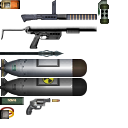
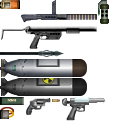
Added a fully functional syringe gun! Accepts syringes as ammo. Has custom sprite and sound. Made syringes have a "projectile" component for syringe guns Adds several missing signal components to the fabricator, as well as medical syringe to medical fabricator Adds support for status effects applied

Changed region(s): [[0.4688, 0.75, 0.8438, 0.9688]]

diff --git a/Barotrauma/BarotraumaShared/Source/Items/Components/Projectile.cs b/Barotrauma/BarotraumaShared/Source/Items/Components/Projectile.cs
@@ -237,6 +237,7 @@ namespace Barotrauma.Items.Components
             }
 
             AttackResult attackResult = new AttackResult();
+            Character character = null;
             if (attack != null)
             {
                 var submarine = target.Body.UserData as Submarine;
@@ -248,11 +249,13 @@ namespace Barotrauma.Items.Components
                     return true;
                 }
 
-                Limb limb;
+                Limb limb = target.Body.UserData as Limb;
                 Structure structure;
-                if ((limb = (target.Body.UserData as Limb)) != null)
+                if (limb != null)
                 {
                     attackResult = attack.DoDamageToLimb(User, limb, item.WorldPosition, 1.0f);
+                    if (limb.character != null)
+                        character = limb.character;
                 }
                 else if ((structure = (target.Body.UserData as Structure)) != null)
                 {
@@ -260,8 +263,8 @@ namespace Barotrauma.Items.Components
                 }
             }
 
-            ApplyStatusEffects(ActionType.OnUse, 1.0f);
-            ApplyStatusEffects(ActionType.OnImpact, 1.0f);
+            ApplyStatusEffects(ActionType.OnUse, 1.0f, character);
+            ApplyStatusEffects(ActionType.OnImpact, 1.0f, character);
 
             IsActive = false;
 
@@ -306,7 +309,7 @@ namespace Barotrauma.Items.Components
                     {
                         contained.SetTransform(item.SimPosition, contained.body.Rotation);
                     }
-                    contained.Condition = 0.0f;
+                    //contained.Condition = 0.0f; //Let the freaking .xml handle it jeez
                 }
             }
 

diff --git a/Barotrauma/BarotraumaShared/Source/DebugConsole.cs b/Barotrauma/BarotraumaShared/Source/DebugConsole.cs
@@ -114,6 +114,17 @@ namespace Barotrauma
                 NewMessage("The code words are: " + traitorManager.codeWords + ", response: " + traitorManager.codeResponse + ".", Color.Cyan);
             }));
 
+            commands.Add(new Command("itemlist", "itemlist: List all the item prefabs available for spawning.", (string[] args) =>
+            {
+                NewMessage("***************", Color.Cyan);
+                foreach (ItemPrefab itemPrefab in MapEntityPrefab.List)
+                {
+                    
+                    NewMessage("- " + itemPrefab.Name, Color.Cyan);
+                }
+                NewMessage("***************", Color.Cyan);
+            }));
+
             commands.Add(new Command("createfilelist", "", (string[] args) =>
             {
                 UpdaterUtil.SaveFileList("filelist.xml");

diff --git a/Barotrauma/BarotraumaShared/Source/Characters/StatusEffect.cs b/Barotrauma/BarotraumaShared/Source/Characters/StatusEffect.cs
@@ -265,7 +265,7 @@ namespace Barotrauma
                 {
                     SerializableProperty property;
 
-                    if (!target.SerializableProperties.TryGetValue(propertyNames[i], out property)) continue;
+                    if (target == null || target.SerializableProperties == null || !target.SerializableProperties.TryGetValue(propertyNames[i], out property)) continue;
 
                     if (duration > 0.0f)
                     {
